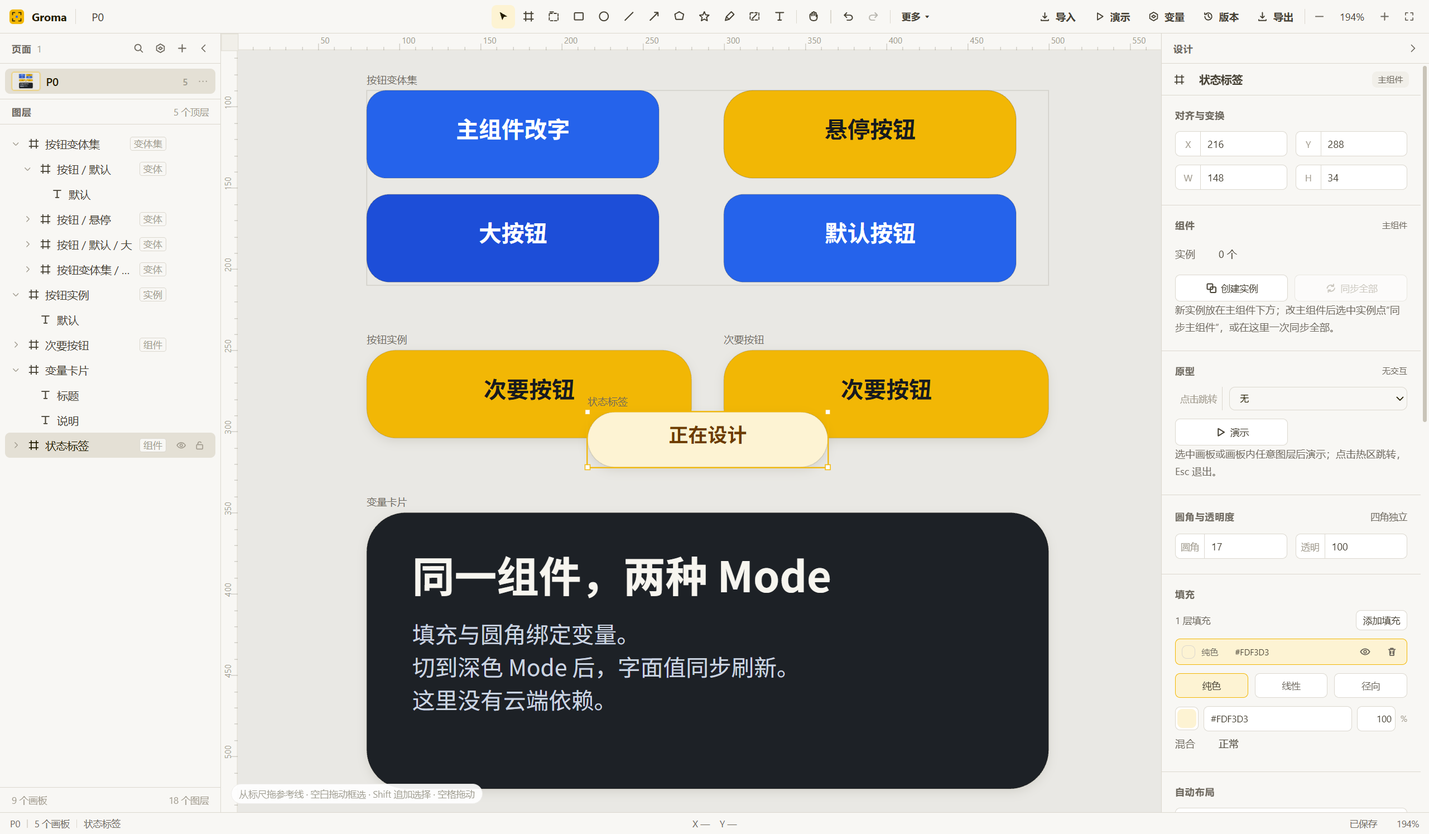
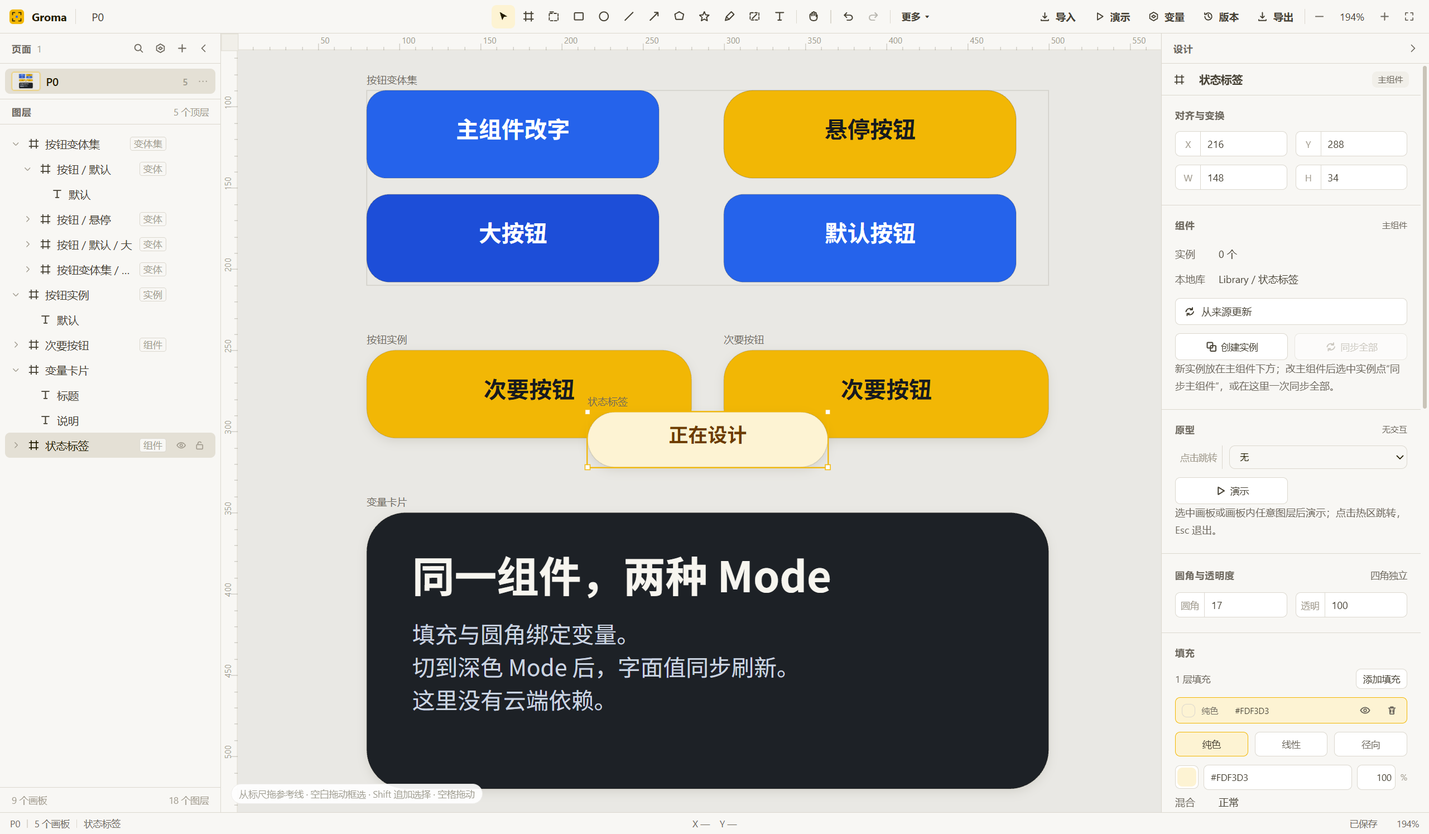
Groma：补齐 P0 组件 / 变量 / 原型验收截图与文档
- 新增 16 张 P0 验收截图：组件库、实例覆盖与重置、实例换源、变体与变体矩阵、变量与变量别名、暗色、右键菜单、跨工程更新
- 重出跨工程导入与窗口截图；tools/cdp-p0.mjs 同步取舍
- README 与四份 docs 更新到 11-28 实测口径

diff --git a/README.md b/README.md
@@ -1,6 +1,6 @@
 # Groma · 小方工作室 UI/UX 设计工具
 
-> **小方工作室 · 出品** ｜ 规格 `v2.2` + 首个可运行切片 `v0.1` ｜ 2026-11-28 ｜ 状态：M0a / M0b 已落地，能画、能存、能导 PNG/JPG/SVG/HTML、任意选中图层/单画板/区块/切片导出与本页批量导出、能导入 Vexa SVG（路径/渐变/描边/文本/内嵌图）与 PNG/JPG/WebP 图片节点并随工程保存；导出弹窗已重排为单焦点，外部软件不再挂在导出入口，选区回传待补，能多选整理、智能吸附、手动参考线、多页面（拖排序 / 缩略图 / 跨页搜索 / 页级视口恢复）、版本历史浏览回滚、Section 区块、切片区域导出、钢笔路径（角点/对称手柄/闭合/多轮廓/共享顶点/锚点拖拽/手柄改形/插点/删点/整条轮廓删除/双击切角点平滑/保存重开/单图层导出）与多对象四布尔 Union/Subtract/Intersect/Exclude，并补齐 Divide / Flatten / Outline stroke（宽屏四布尔+“更多 ▾”，窄屏“矢量 ▾”七项菜单），几何/Alpha/亮度蒙版、多画板可见区空间索引与百画板增量缩略图（编辑一块只重建一块）、四角独立圆角、多填充（最多 16 层，纯色/线性/径向、逐层显隐与排序）、父画板约束（左右/上下拉伸、居中、按比例）、自动布局（横向/纵向、间距、四边内边距、交叉轴/主轴对齐、适应内容主轴）、组件一期（主组件/实例、创建实例、同步全部、脱离、选中主组件）、组件变体一期（多选主组件合并变体集、属性值编辑、新增变体、实例切换保留位置、多属性组合矩阵、按矩阵空格补齐变体、三属性以上其余属性筛选面）、实例覆盖一期（实例子层文字/填充/尺寸等改动记在实例根，同步主组件后重放，可逐层重置）、组件替换（实例换主组件保留位置，同路径同类型同名覆盖继续沿用）、跨页本地组件库（左栏弹层搜索、跳页、实例计数）、本机跨工程组件库（最近 12 个工程、可迁移性检查、视口中心导入）、Variables 一期（集合、多 Mode、颜色/数值变量绑定填充、描边色、圆角、描边宽、自动布局间距、内边距与字号，同类型变量引用，Mode 切换刷新）、画布 Groma 右键菜单（复制/组件/变体/成组/显隐/锁定/删除）、原型一期（点击跳转、右栏原型段、顶栏/播放器演示、百分比热区、返回栈、Esc 退出）、文档级命名样式（填充/描边/效果/文本绑定与手动同步，一键复制变量并把 CSS/JSON 令牌写入工程 `exports`）、可运行 HTML 导出（文字可选、形状 CSS、路径内联 SVG、图片内嵌）、选中图层 CSS 检查与复制、本地版本 diff、图片区域裁剪、剪贴板图片粘贴、形状图片填充（铺满/适应 + 焦点）、文本字距、段落间距与项目符号/数字列表、多投影/整层模糊、Shift+2 选中适配（见 0.9）
+> **小方工作室 · 出品** ｜ 规格 `v2.2` + 首个可运行切片 `v0.1` ｜ 2026-11-28 ｜ 状态：M0a / M0b 已落地，能画、能存、能导 PNG/JPG/SVG/HTML、任意选中图层/单画板/区块/切片导出与本页批量导出、能导入 Vexa SVG（路径/渐变/描边/文本/内嵌图）与 PNG/JPG/WebP 图片节点并随工程保存；导出弹窗已重排为单焦点，外部软件不再挂在导出入口，选区回传待补，能多选整理、智能吸附、手动参考线、多页面（拖排序 / 缩略图 / 跨页搜索 / 页级视口恢复）、版本历史浏览回滚、Section 区块、切片区域导出、钢笔路径（角点/对称手柄/闭合/多轮廓/共享顶点/锚点拖拽/手柄改形/插点/删点/整条轮廓删除/双击切角点平滑/保存重开/单图层导出）与多对象四布尔 Union/Subtract/Intersect/Exclude，并补齐 Divide / Flatten / Outline stroke（宽屏四布尔+“更多 ▾”，窄屏“矢量 ▾”七项菜单），几何/Alpha/亮度蒙版、多画板可见区空间索引与百画板增量缩略图（编辑一块只重建一块）、四角独立圆角、多填充（最多 16 层，纯色/线性/径向、逐层显隐与排序）、父画板约束（左右/上下拉伸、居中、按比例）、自动布局（横向/纵向、间距、四边内边距、交叉轴/主轴对齐、适应内容主轴）、组件一期（主组件/实例、创建实例、同步全部、脱离、选中主组件）、组件变体一期（多选主组件合并变体集、属性值编辑、新增变体、实例切换保留位置、多属性组合矩阵、按矩阵空格补齐变体、三属性以上其余属性筛选面）、实例覆盖一期（实例子层文字/填充/尺寸等改动记在实例根，同步主组件后重放，可逐层重置）、组件替换（实例换主组件保留位置，同路径同类型同名覆盖继续沿用）、跨页本地组件库（左栏弹层搜索、跳页、实例计数）、本机跨工程组件库（最近 12 个工程、可迁移性检查、视口中心导入、来源更新）、Variables 一期（集合、多 Mode、颜色/数值变量绑定填充、描边色、圆角、描边宽、自动布局间距、内边距与字号，同类型变量引用，Mode 切换刷新）、画布 Groma 右键菜单（复制/组件/变体/成组/显隐/锁定/删除）、原型一期（点击跳转、右栏原型段、顶栏/播放器演示、百分比热区、返回栈、Esc 退出）、文档级命名样式（填充/描边/效果/文本绑定与手动同步，一键复制变量并把 CSS/JSON 令牌写入工程 `exports`）、可运行 HTML 导出（文字可选、形状 CSS、路径内联 SVG、图片内嵌）、选中图层 CSS 检查与复制、本地版本 diff、图片区域裁剪、剪贴板图片粘贴、形状图片填充（铺满/适应 + 焦点）、文本字距、段落间距与项目符号/数字列表、多投影/整层模糊、Shift+2 选中适配（见 0.9）
 > 对标 Figma Design 主编辑器 ｜ 全中文 ｜ 本地优先 ｜ 零账号 ｜ 零 AI ｜ MIT
 >
 > 名字含义：Groma 是古罗马人放线画网格、规划城市的测绘架。罗马人用它规划城市，Groma 用来规划界面。
@@ -110,7 +110,7 @@
 | 父画板约束 | 子图层可按水平左/右/居中/左右拉伸/按比例、垂直上/下/居中/上下拉伸/按比例跟随父 Frame/Section 尺寸变化；画布缩放父画板时子层重排，并与父变化同一事务撤销。右栏“约束”两枚下拉，仅直接父级为 Frame 时出现。真实 EXE `Figma33` 选中卡片显示“左右拉伸 / 上下拉伸”；截图 `shots/figma33-final-inspector.png` |
 | 自动布局 | Frame/Section/Group 可开启横向/纵向自动排列；支持间距、四边独立内边距、交叉轴起始/居中/末尾/拉伸、主轴起始/居中/末尾/两端、适应内容主轴。子层按图层顺序排列，选中子层可在右栏“布局顺序”里上移/下移并立即重排；画布拖动被布局接管，改子层尺寸/容器尺寸/布局参数立即重排，嵌套布局先算内层再算外层；撤销会同时恢复父容器与所有移动过的兄弟层。真实 EXE `AutoLayout` 四按钮横向两端对齐，右栏方向用图标 + 文字、重排/关闭用图标按钮；截图 `shots/autolayout-ui-final.png`、`shots/layout-order-final.png` |
 | 组件一期 | Frame 可标记主组件或实例，实例用 `componentOf` 指回主组件；右栏“组件”段按状态显示创建组件 / 创建实例 / 同步全部 / 同步主组件 / 脱离组件 / 选中主组件。创建实例默认放主组件下方 40px；同步保留实例位置、名称与父级，用主组件子树重建后代并生成新 id；一条操作只产生一条撤销。左栏图层行与检查器类型 chip 区分“组件 / 实例”。真实 EXE `Components` 创建实例后立刻渲染，重开工程实例仍在，右栏 `scrollWidth` 无溢出；截图 `shots/component-final.png`、`shots/component-master.png` |
-| 组件变体 / 本地组件库 | Frame 可携带 `variantSetId` / `variantProps`，多选同一父级的主组件可“合并为变体集”；变体根可编辑属性值、从当前变体新增副本，也可追加属性维度并按 2×2 组合矩阵补空位，三属性以上用其余属性筛选面；实例下拉切换同集变体并保留位置/尺寸采用目标变体。左栏组件库弹层跨页列出全部主组件，支持搜索、页面/尺寸、实例计数、点击跳页选中；“本机工程”页签扫描最近 12 个本地工程的主组件，标记图片/样式/变量/实例等外部依赖，可迁移组件一键导入到当前视口中心并换全新 id。真实 EXE `P0` 默认→悬停切换、集内新增变体、组件库 2 行、右栏无溢出；再从 `Library` 导入“状态标签”，图层与右栏主组件正常；截图 `shots/p0-variant.png`、`shots/p0-library.png`、`shots/p0-cross-library.png`、`shots/p0-cross-import.png` |
+| 组件变体 / 本地组件库 | Frame 可携带 `variantSetId` / `variantProps`，多选同一父级的主组件可“合并为变体集”；变体根可编辑属性值、从当前变体新增副本，也可追加属性维度并按 2×2 组合矩阵补空位，三属性以上用其余属性筛选面；实例下拉切换同集变体并保留位置/尺寸采用目标变体。左栏组件库弹层跨页列出全部主组件，支持搜索、页面/尺寸、实例计数、点击跳页选中；“本机工程”页签扫描最近 12 个本地工程的主组件，标记图片/样式/变量/实例等外部依赖，可迁移组件一键导入到当前视口中心并换全新 id。真实 EXE `P0` 默认→悬停切换、集内新增变体、组件库 2 行、右栏无溢出；再从 `Library` 导入“状态标签”，图层与右栏主组件正常，改来源后点“从来源更新”主组件与实例同步为“来源已更新”；截图 `shots/p0-variant.png`、`shots/p0-library.png`、`shots/p0-cross-library.png`、`shots/p0-cross-import.png` |
 | 实例覆盖 / 组件替换 | 实例根保存 `instanceOverrides`，键为实例根到子层的子索引路径（如 `0.1`）；实例子层改文字、填充、圆角、尺寸、位置、透明度或显隐只记覆盖，主组件同步/切变体后按路径重放，脱离组件时清空。右栏“实例覆盖”段显示实例名、路径、已覆盖字段与“重置此层”。真实 EXE `P0` 实例文字改“实例覆盖”，主组件改“主组件改字”，同步后实例仍“实例覆盖”，重置后回“主组件改字”。右栏“替换组件”可换到任意本工程主组件，保留实例位置，按路径核对同类型同名后继续沿用覆盖；真实 EXE `P0` 实例换到“次要按钮”，主组件行与画布同步切换。截图 `shots/p0-instance-override.png`、`shots/p0-instance-override-sync.png`、`shots/p0-instance-override-reset.png`、`shots/p0-instance-swap.png` |
 | 画布右键菜单 | 画布不再弹 WebView 默认菜单，改为 Groma 菜单：按命中图层先选中，提供复制、创建实例、新增变体、同步/脱离组件、合并变体集、创建组件、成组/解散、显隐、锁定、删除与全选。空白右键显示画布级入口；菜单位置按窗口边缘收拢。真实 EXE 右键“标题”打开 224px 菜单，选中与动作正常；截图 `shots/p0-context-menu.png` |
 | Variables / 多 Mode | 文档级 `variables` 集合带 Light/Dark 等 Mode；颜色变量可绑节点填充首色，数值变量可绑统一圆角；切换 Mode 或改当前 Mode 变量值，会批量刷新所有绑定字面值并保持 `variableBindings`，仍走本地工程与撤销。顶栏“变量”打开集合/Mode/变量表，右栏“变量”段做图层绑定。真实 EXE `P0` 卡片填充 `#F7F5EF→#1D2126`、圆角 `12→24`，标题/正文颜色同步；截图 `shots/p0-variable-panel.png`、`shots/p0-variables-dark.png` |
@@ -129,7 +129,7 @@
 | 图层树 / 显隐 / 锁定 / 重命名 | 图层嵌套正确；检查器标题可直接改名，改名进入撤销历史 |
 | 属性检查器 | X/Y/W/H、圆角（统一/四角独立）、透明度、填充、描边、文本内容、字体族、字号、字重、字距、文本对齐、行高、斜体；填充支持纯色 / 线性 / 径向切换、色标颜色 / 位置 / 透明度、增删色标（新增取两侧中点色）、线性角度与反向、径向圆心 / 半径；描边支持宽度、颜色、透明度、实线 / 虚线 / 点线 / 自定义间距、端点与转角；文本字距单位 px、可负值，Canvas 与 SVG 同步；真实 EXE 已验证导入文本 Arial→Microsoft YaHei、渐变 3→4 色标与 45°、描边 8→12px 且 custom→dashed / round / round、标题字距 0→6 并保存重开 |
 | 图层 CSS | 选中 Frame/Shape/Image/Group 时右栏“代码”段输出可直接粘的 CSS：定位尺寸、透明度、变换、溢出、四角圆角、底层纯色或多层渐变 `background-image`、首条描边、投影、整层模糊、文本字体/字号/字重/行高/字距/对齐/斜体/颜色；类名由图层名生成。真实 EXE 选中“样式卡 A”得到 `.样式卡-a`，代码区显示完整规则；可信鼠标点击“复制 CSS”后按钮变“已复制”，截图 `shots/copy-css.png` |
-| 撤销 / 重做 | 新增、删除子树、属性补丁、拖动事务均只产生一条历史；多选拖动、批量删除、对齐/分布、成组/解组也各自单步撤销；手动参考线添加/移动/删除逐步撤销；页面新建/改名/复制/删除/拖排序逐步撤销并恢复页顺序与选区；钢笔锚点拖拽用静默更新合并为一条历史；布尔与 Divide/Flatten/Outline 的多结果与源补丁合并为一条；蒙版启用/取消/切换类型各一条 patch 历史；图片裁剪拖动一条历史；父画板缩放时约束子层与画板变化同事务；样式创建/更新/删除保存整文档前后快照；当前 267 项单测通过 |
+| 撤销 / 重做 | 新增、删除子树、属性补丁、拖动事务均只产生一条历史；多选拖动、批量删除、对齐/分布、成组/解组也各自单步撤销；手动参考线添加/移动/删除逐步撤销；页面新建/改名/复制/删除/拖排序逐步撤销并恢复页顺序与选区；钢笔锚点拖拽用静默更新合并为一条历史；布尔与 Divide/Flatten/Outline 的多结果与源补丁合并为一条；蒙版启用/取消/切换类型各一条 patch 历史；图片裁剪拖动一条历史；父画板缩放时约束子层与画板变化同事务；样式创建/更新/删除保存整文档前后快照；当前 269 项单测通过 |
 | 命令层 | `insert / remove / patch / restore / clone` 五类命令；编辑器 `addNode / deleteSelected / duplicateSelected / updateSilent / nudgeSelected` 已全部迁移，结构字段不能通过 patch 穿透 |
 | 5000 节点基准 | `npm run bench`：同一份代码在不同系统负载下波动，命中首节点约 0.10–0.39ms、复制 2000 节点约 4–21ms、200 步撤销约 0.29–1.11s、全树 JSON 字符串化约 8–9ms、结构校验约 30–130ms、100 次写-读-写往返零不一致（约 13.7–53.8s）；波动值不作为性能 SLA |
 | 渲染裁剪 | 画布只遍历视口内节点；状态更新合并到下一帧 rAF；交互时跳过画板阴影、名称标签与点阵网格；平移用内容区快照，不再逐事件重画整场景；DPR 最多 800 万物理像素、上限 2。页缩略图改为 100ms 尾部合并，并限制到 3 层/0.5px 细节，避免和主画布挤同一帧（5000 节点 mock 0.52ms/次，50/5051 节点） |
@@ -146,7 +146,7 @@
 
 **尚未实现（不要当成已有）**
 
-- 更精确的描边转轮廓（虚线 / 复杂 join）、跨工程组件更新/发布 / 组件属性覆盖、变量批量导入/导出、约束九宫、Smart Guides 的间距数字胶囊、布局网格、小地图、PDF 导出、ZIP 打包、保存目录对话框、文件对话框打开外部工程、命名版本 / 分支合并、评论 / 协作、图案填充、混合模式、蒙版组、图像蒙版、羽化/扩展尚未实现。自动布局一期已支持固定主轴与 Hug 主轴；Fill/Fixed 全组合、换行、布局网格未做；子层顺序可用右栏按钮重排，画布拖拽排序未做。组件变体一期已支持合并变体集、属性值编辑、新增变体、多属性组合矩阵、三属性以上筛选面与实例同集切换；实例覆盖一期支持实例子层文字/填充/尺寸等覆盖并在同步后重放、逐层重置，组件库已支持本机跨工程浏览与可迁移组件导入，跨工程更新/发布未做；组件替换已落地；原型一期已支持点击跳转与本地演示，拖拽/悬停/按键/定时/页面加载、Overlay、Swap、Scroll、Smart Animate、设备框、录屏、分享未做。投影与整层模糊已落地，内阴影、背景模糊与投影 spread 未做；几何形状蒙版与 Alpha/亮度蒙版已落地；矢量路径、渐变、描边、文本与内嵌图片的 SVG 导入、PNG/JPG/WebP 图片节点与工程资产层、图片区域裁剪、剪贴板图片粘贴、形状图片填充已落地；图片节点裁剪焦点与孤儿资产清理未做。文本仅支持整段样式，字距、段落间距、项目符号/数字列表与常用字体建议已做，富文本片段样式、路径文字、链接与系统字体全量枚举未做。
+- 更精确的描边转轮廓（虚线 / 复杂 join）、跨工程组件发布/版本订阅 / 组件属性覆盖、变量批量导入/导出、约束九宫、Smart Guides 的间距数字胶囊、布局网格、小地图、PDF 导出、ZIP 打包、保存目录对话框、文件对话框打开外部工程、命名版本 / 分支合并、评论 / 协作、图案填充、混合模式、蒙版组、图像蒙版、羽化/扩展尚未实现。自动布局一期已支持固定主轴与 Hug 主轴；Fill/Fixed 全组合、换行、布局网格未做；子层顺序可用右栏按钮重排，画布拖拽排序未做。组件变体一期已支持合并变体集、属性值编辑、新增变体、多属性组合矩阵、三属性以上筛选面与实例同集切换；实例覆盖一期支持实例子层文字/填充/尺寸等覆盖并在同步后重放、逐层重置，组件库已支持本机跨工程浏览、可迁移组件导入与从来源更新；未做跨工程发布/版本订阅；组件替换已落地；原型一期已支持点击跳转与本地演示，拖拽/悬停/按键/定时/页面加载、Overlay、Swap、Scroll、Smart Animate、设备框、录屏、分享未做。投影与整层模糊已落地，内阴影、背景模糊与投影 spread 未做；几何形状蒙版与 Alpha/亮度蒙版已落地；矢量路径、渐变、描边、文本与内嵌图片的 SVG 导入、PNG/JPG/WebP 图片节点与工程资产层、图片区域裁剪、剪贴板图片粘贴、形状图片填充已落地；图片节点裁剪焦点与孤儿资产清理未做。文本仅支持整段样式，字距、段落间距、项目符号/数字列表与常用字体建议已做，富文本片段样式、路径文字、链接与系统字体全量枚举未做。
 - 批量导出是逐个写文件，不打包 ZIP，也没有“选择保存目录 / 文件对话框”，固定写入工程 `exports`；JPG 无质量滑杆；SVG 生成器覆盖 rect / ellipse / path / text / frame / section / group / image，支持渐变、描边与文本字体/斜体/对齐/行高；几何蒙版输出 `clipPath`，Alpha/亮度蒙版输出 `<mask mask-type>`；阴影、混合模式、滤镜和蒙版组尚未支持，frame 子边框与 Canvas 近似，不是完整 CSS / 滤镜级保真。
 - 外部软件交接入口未挂在导出弹窗：底层保留 `groma_open_in_app`、应用发现与 Vexa 带文件启动；Groma 已有图片节点/工程资产导入（见“图片导入 / 资产层”），外部软件的工程级导入只保留入口，选区回传接收层未做。不做 `.groma` ↔ `.strata` / `.vex` 原生工程互转，也不承诺批量外部处理。Vexa 已有文档时接到外部 SVG 会替换当前文档，未做未保存确认。
 - `npm run overflow` 三视口自动扫描、开发期 `Ctrl+Alt+O` 描红尚未实现；目前已实拍最大化（约 1707×1019 CSS）、1280×800（约 839×496 CSS）与最小窗口 1040×680（约 679×416 CSS）三档，未见横向溢出，仍欠自动像素扫描。
@@ -160,7 +160,7 @@
 2. 智能参考线 / 吸附：移动与缩放、手动参考线已落地（2026-11-22，见 0.9）；间距数字胶囊、绘制时吸附仍待补。
 3. ~~多页面与页面管理（A02 全链路）~~（2026-11-23 已补齐：列表 / 新建 / 改名 / 复制 / 删除 / 切换 / 撤销 / 拖排序 / 页级视口 / 关掉重开恢复当前页与视口 / 实时缩略图 / 跨页搜索，均已真实窗口验收）。
 4. ~~A05 版本历史浏览与回滚~~（2026-11-23 已落地快照列表、页面预览、手动存版本、二次确认恢复、恢复前留底、同内容保存去重；2026-11-27 已加旧快照相对当前 diff）；命名版本、分支合并仍待补。
-5. ~~A03 Section 基础链路~~（2026-11-23 已落地：`S` 创建、命名、折叠、填充、Frame 入区块、PNG 整体导出）；~~A08 导出~~（2026-11-23 已落地 PNG/JPG/SVG、当前选中 / 本页全部、批量逐个写入、JPG 白底、SVG 矢量；批量不打包 ZIP；2026-11-24 导出弹窗重排为单焦点并拆掉外部应用勾选）；外部软件交接第一版已收口，下一步只做“选中元素/框选区域 → Strata/Vexa 处理 → 带回原位”，选区回传接收层待补；Groma 图片资产层与 A07 SVG 导入已接；P0 的组件变体（含多属性矩阵）、跨页组件库、Variables 多 Mode、实例覆盖与画布右键菜单已收口，后续按能力矩阵补跨工程组件更新/发布与变量批量导入/导出。
+5. ~~A03 Section 基础链路~~（2026-11-23 已落地：`S` 创建、命名、折叠、填充、Frame 入区块、PNG 整体导出）；~~A08 导出~~（2026-11-23 已落地 PNG/JPG/SVG、当前选中 / 本页全部、批量逐个写入、JPG 白底、SVG 矢量；批量不打包 ZIP；2026-11-24 导出弹窗重排为单焦点并拆掉外部应用勾选）；外部软件交接第一版已收口，下一步只做“选中元素/框选区域 → Strata/Vexa 处理 → 带回原位”，选区回传接收层待补；Groma 图片资产层与 A07 SVG 导入已接；P0 的组件变体（含多属性矩阵）、跨页组件库、Variables 多 Mode、实例覆盖与画布右键菜单已收口，后续按能力矩阵补跨工程组件发布/版本订阅与变量批量导入/导出。
 
 ## 一 定位
 

diff --git a/docs/Figma能力矩阵.md b/docs/Figma能力矩阵.md
@@ -1,7 +1,7 @@
 # Groma × Figma 能力矩阵（执行版）
 
-> 更新：2026-11-28 ｜ 审计基线：`npm test` 43 个测试文件 / 267 tests 全绿；G01 已落地原型一期（Frame/图层点击跳转、右栏“原型”段、顶栏“演示”、本地播放器、百分比热区、返回栈、Esc 退出，真实 EXE 双屏跳转 + 关闭回编辑器），G05 同步落地本地演示；F01 已落地组件一期（Frame 主组件标记、创建实例、显式同步、同步全部、脱离、选中主组件，实例根位置保留、子树重建进撤销历史，真实 EXE 创建实例 + 重开工程 + 右栏无溢出）；D04 已落地四角独立圆角（`cornerRadii` 左上/右上/右下/左下，Canvas/SVG/PNG 与检查器统一，真实 EXE 截图 + 保存重开通过）；D01 已落地同节点最多 16 层填充（纯色/线性/径向、逐层显隐、上下移动，Canvas/SVG 按底层到顶层叠加，右栏“填充 · N 层”）；E01 已落地父 Frame 缩放约束（左/右/居中/左右拉伸/按比例 + 上/下/居中/上下拉伸/按比例，画布与撤销纳入子层）；E02 已落地自动布局一期（Frame/Section/Group 横向/纵向、gap、四边 padding、交叉轴 start/center/end/stretch、主轴 start/center/end/space-between、适应内容主轴；子层按图层顺序，选中子层可在右栏“布局顺序”上移/下移并立即重排，嵌套布局自内向外；拖子层交给布局，改尺寸立即重排，撤销合并父容器与兄弟层）；F04 已落地文档级命名样式（填充/描边/效果/文本四类绑定、同步、解除、删除，右栏显示“已绑定 / 已偏离”，并支持复制变量与导出 CSS/JSON 令牌文件）；C03 已落地钢笔一期/锚点编辑/多轮廓复合路径/共享顶点（`vertexId` 最小内核）/当前轮廓序号与整条轮廓删除，C04 已落地多对象四布尔 Union/Subtract/Intersect/Exclude、同父级校验与 z-order 差集（底层减其余并集），并补齐 Divide / Flatten / Outline stroke；C05 已落地几何形状蒙版与 Alpha/亮度蒙版，多画板画布加入可见区空间索引；C06 已落地图片区域裁剪、剪贴板粘贴与形状图片填充（铺满/适应 + 焦点），C07 已落地字距、段落间距、项目符号/数字列表与字体族建议；D03 已落地多投影与整层模糊（Canvas 离屏效果层 + SVG filter），B02 已补齐 Shift+2 选中适配；百画板总览已改成缩放位图快照 + 低倍/中倍密集画板缩略图 + 独立选中覆盖层 + 增量缩略图 + 建图 12ms 预算 + 左栏行 memo，并加入空闲回调预热（首帧 6 张 / 12ms，空闲片 24 张 / 26ms；600 冷启动 4.2s 内 600 张，500ms 150 张，1 个 >16ms、0 个 >32ms，max 30.9ms）；A02 全链路、A05 浏览回滚与快照 diff、A03 Section 基础链路、A08 PNG/JPG/SVG/HTML 与本页批量导出、选中图层 CSS 检查复制、导出弹窗单焦点重排、页缩略图不抢帧补丁、PNG/JPG/WebP 图片节点与工程资产层（含替换图片）、文本对齐/行高/斜体、C02 直线/箭头/多边形/星形与 Slice 区域导出均已落地；左栏 footer 背景固定与内容裁剪、页面“画板”计数只数 Frame、顶栏宽屏四布尔+“更多 ▾”与窄屏“矢量 ▾”七项菜单、验收截图统一最大化；MCP 19 个 stdio 工具（0.3.4：新增能力查询/单节点精确读/百画板网格/批量改节点/页面改名与背景/四角圆角/多填充/约束/自动布局/原型目标写入）；外部软件工程级导入只留入口，选区回传待补；EXE 3,417,600 B（3,338 KB），2026-11-28 13:00:54；CSS `index-WP0PpSem.css` 81.12 kB、JS `index-D1or2Nos.js` 634.03 kB
-> P0 补充（2026-11-28）：`npm run gate` 43 文件 / 267 tests；F01 实例覆盖 + 组件替换一期（实例子层文字/填充/尺寸等改动按子索引路径写在实例根，主组件同步与切变体后重放，逐层重置；替换组件保留位置并按路径核对同类型同名覆盖；真实 EXE 覆盖→改主组件→同步仍覆盖→重置回主组件、实例换“次要按钮”通过）、F02 变体多属性一期（追加属性维度、2×2 组合矩阵、三属性以上其余属性筛选面、点击空格补齐组合并保持变体集尺寸）、F03 本地组件库（本工程跨页搜索/跳页/实例计数 + 最近 12 个本机工程的跨工程浏览与可迁移组件导入）、F05 Variables 一期（集合、Light/Dark 等 Mode、填充/描边色/圆角/描边宽/自动布局间距/内边距/字号绑定、同类型变量引用、切 Mode 批量刷新）已落地；画布补 Groma 右键菜单，不再弹 WebView 默认菜单。真实 EXE `P0.groma` 验收，EXE 3,417,600 B（3,338 KB），2026-11-28 13:00:54；CSS `index-WP0PpSem.css` 81.12 kB、JS `index-D1or2Nos.js` 634.03 kB。
+> 更新：2026-11-28 ｜ 审计基线：`npm test` 44 个测试文件 / 269 tests 全绿；G01 已落地原型一期（Frame/图层点击跳转、右栏“原型”段、顶栏“演示”、本地播放器、百分比热区、返回栈、Esc 退出，真实 EXE 双屏跳转 + 关闭回编辑器），G05 同步落地本地演示；F01 已落地组件一期（Frame 主组件标记、创建实例、显式同步、同步全部、脱离、选中主组件，实例根位置保留、子树重建进撤销历史，真实 EXE 创建实例 + 重开工程 + 右栏无溢出）；D04 已落地四角独立圆角（`cornerRadii` 左上/右上/右下/左下，Canvas/SVG/PNG 与检查器统一，真实 EXE 截图 + 保存重开通过）；D01 已落地同节点最多 16 层填充（纯色/线性/径向、逐层显隐、上下移动，Canvas/SVG 按底层到顶层叠加，右栏“填充 · N 层”）；E01 已落地父 Frame 缩放约束（左/右/居中/左右拉伸/按比例 + 上/下/居中/上下拉伸/按比例，画布与撤销纳入子层）；E02 已落地自动布局一期（Frame/Section/Group 横向/纵向、gap、四边 padding、交叉轴 start/center/end/stretch、主轴 start/center/end/space-between、适应内容主轴；子层按图层顺序，选中子层可在右栏“布局顺序”上移/下移并立即重排，嵌套布局自内向外；拖子层交给布局，改尺寸立即重排，撤销合并父容器与兄弟层）；F04 已落地文档级命名样式（填充/描边/效果/文本四类绑定、同步、解除、删除，右栏显示“已绑定 / 已偏离”，并支持复制变量与导出 CSS/JSON 令牌文件）；C03 已落地钢笔一期/锚点编辑/多轮廓复合路径/共享顶点（`vertexId` 最小内核）/当前轮廓序号与整条轮廓删除，C04 已落地多对象四布尔 Union/Subtract/Intersect/Exclude、同父级校验与 z-order 差集（底层减其余并集），并补齐 Divide / Flatten / Outline stroke；C05 已落地几何形状蒙版与 Alpha/亮度蒙版，多画板画布加入可见区空间索引；C06 已落地图片区域裁剪、剪贴板粘贴与形状图片填充（铺满/适应 + 焦点），C07 已落地字距、段落间距、项目符号/数字列表与字体族建议；D03 已落地多投影与整层模糊（Canvas 离屏效果层 + SVG filter），B02 已补齐 Shift+2 选中适配；百画板总览已改成缩放位图快照 + 低倍/中倍密集画板缩略图 + 独立选中覆盖层 + 增量缩略图 + 建图 12ms 预算 + 左栏行 memo，并加入空闲回调预热（首帧 6 张 / 12ms，空闲片 24 张 / 26ms；600 冷启动 4.2s 内 600 张，500ms 150 张，1 个 >16ms、0 个 >32ms，max 30.9ms）；A02 全链路、A05 浏览回滚与快照 diff、A03 Section 基础链路、A08 PNG/JPG/SVG/HTML 与本页批量导出、选中图层 CSS 检查复制、导出弹窗单焦点重排、页缩略图不抢帧补丁、PNG/JPG/WebP 图片节点与工程资产层（含替换图片）、文本对齐/行高/斜体、C02 直线/箭头/多边形/星形与 Slice 区域导出均已落地；左栏 footer 背景固定与内容裁剪、页面“画板”计数只数 Frame、顶栏宽屏四布尔+“更多 ▾”与窄屏“矢量 ▾”七项菜单、验收截图统一最大化；MCP 19 个 stdio 工具（0.3.4：新增能力查询/单节点精确读/百画板网格/批量改节点/页面改名与背景/四角圆角/多填充/约束/自动布局/原型目标写入）；外部软件工程级导入只留入口，选区回传待补；EXE 3,416,064 B（3,336 KB），2026-11-28 13:37:16；CSS `index-DPX5GKEb.css` 81.23 kB、JS `index-zbpbLfs1.js` 637.32 kB
+> P0 补充（2026-11-28）：`npm run gate` 44 文件 / 269 tests；F01 实例覆盖 + 组件替换一期（实例子层文字/填充/尺寸等改动按子索引路径写在实例根，主组件同步与切变体后重放，逐层重置；替换组件保留位置并按路径核对同类型同名覆盖；真实 EXE 覆盖→改主组件→同步仍覆盖→重置回主组件、实例换“次要按钮”通过）、F02 变体多属性一期（追加属性维度、2×2 组合矩阵、三属性以上其余属性筛选面、点击空格补齐组合并保持变体集尺寸）、F03 本地组件库（本工程跨页搜索/跳页/实例计数 + 最近 12 个本机工程的跨工程浏览、可迁移组件导入与从来源更新）、F05 Variables 一期（集合、Light/Dark 等 Mode、填充/描边色/圆角/描边宽/自动布局间距/内边距/字号绑定、同类型变量引用、切 Mode 批量刷新）已落地；画布补 Groma 右键菜单，不再弹 WebView 默认菜单。真实 EXE `P0.groma` 验收，EXE 3,416,064 B（3,336 KB），2026-11-28 13:37:16；CSS `index-DPX5GKEb.css` 81.23 kB、JS `index-zbpbLfs1.js` 637.32 kB。
 > 功能底本：[`Figma功能蒸馏参考.md`](./Figma功能蒸馏参考.md)（能力清单，不是完成清单）
 > 权威顺序：`README.md` 第零章 → 本文 → 其他规划文档
 > 一句话：**Figma 免费版是功能基线，其他工具的长处是融合层；矩阵只认双击 EXE 能跑的结果。**
@@ -111,7 +111,7 @@
 | --- | --- | --- | --- | --- | --- |
 | F01 | Component / Instance | 主组件、实例、Detach、Swap、Override | ◐ 2026-11-28 组件一期 + 实例覆盖一期：Frame 主组件标记、创建实例、显式同步、脱离、选中主组件；实例数统计与“同步全部”；实例子层文字/填充/圆角/尺寸/位置/透明度/显隐覆盖按路径写入实例根，同步/切变体后重放，可逐层重置。组件替换已落地，保留实例位置并按路径核对同类型同名覆盖；未做实时联动与组件属性面板 | 实时联动、组件属性 | P1 |
 | F02 | Variants | 属性组合、Boolean/Text/Numeric/Variant、嵌套 | ◐ 2026-11-28 变体一期 + 多属性矩阵：多选主组件合并变体集，首变体“默认”、后续自动命名；根属性可改，可追加属性维度，2×2 组合矩阵显示已填/空格，点空格按属性网格补组合并保持变体集尺寸；三属性以上矩阵仍画前两轴，其余属性用筛选面固定后再补格；实例下拉切换同集变体并保留位置/尺寸用目标。未做 Boolean/Text/Numeric 属性编辑器、嵌套与组件属性面板 | 属性类型、嵌套 | P1 |
-| F03 | Libraries / Assets | 团队库、个人库、发布/更新、资产搜索 | ◐ 2026-11-28 本地组件库：左栏弹层跨页列出本工程主组件，按名称/页面/变体搜索，显示尺寸与直接实例数，点击跳页选中；“本机工程”页签扫描最近 12 个本地工程，逐组件检查图片/样式/变量/实例等外部依赖，可迁移组件一键导入当前视口中心并换全新 id；不做在线团队库、跨工程更新/发布与资产拖放 | 跨工程更新/发布 | P2 |
+| F03 | Libraries / Assets | 团队库、个人库、发布/更新、资产搜索 | ◐ 2026-11-28 本地组件库：左栏弹层跨页列出本工程主组件，按名称/页面/变体搜索，显示尺寸与直接实例数，点击跳页选中；“本机工程”页签扫描最近 12 个本地工程，逐组件检查图片/样式/变量/实例等外部依赖，可迁移组件一键导入当前视口中心并换全新 id，导入后保留来源，可在右栏“从来源更新”换成本机最新版本并同步实例；不做在线团队库、跨工程发布/版本订阅与资产拖放 | 跨工程发布/版本订阅 | P2 |
 | F04 | Styles | Paint/Text/Effect/Grid 四类样式、命名空间 | ◐ 2026-11-27 文档级命名样式：填充/描边/效果/文本四类，节点 `styleRefs` 绑定；右栏“存为样式 / 绑定 / 同步到样式 / 解除 / 删除”，样式值偏离时提示“已偏离”；更新样式会同步所有同类绑定图层，删除样式清引用；右栏“复制变量”输出 `:root { --groma-... }`，“导出令牌”写 CSS + JSON 两个文件到工程 `exports`（真实 EXE：CSS 272 B / JSON 375 B），多填充按顶层到底层、纯色转合法渐变；暂用“保留绑定 + 手动同步”，未做 Figma 式编辑即解绑、Grid 样式、样式重命名 UI | 编辑即解绑、Grid、重命名 UI | P1 |
 | F05 | Variables | Color/Number/String/Boolean、集合、Modes、绑定、引用 | ◐ 2026-11-28 变量一期：文档级集合 + 1–16 个 Mode（Light/Dark）+ 四类型变量；变量值改或切 Mode 时批量物化到已绑定节点，保留 `variableBindings`，仍走本地工程/撤销；填充、描边色、圆角、描边宽、自动布局间距、内边距与字号可分别绑定颜色/数值变量，切 Mode 批量物化；同类型变量可跨集合引用，按目标当前 Mode 沿链解析并拒绝循环/跨类型引用；未做渐变 stop 绑定与批量导入/导出 | 批量导入/导出 | P1 |
 | F06 | Design Tokens | 变量导出到代码 token | ○ 只有 scene JSON | token JSON 导出/导入 | P2 |
@@ -531,20 +531,20 @@
 - UI：Frame 右栏新增“组件”段；未标记显示“创建组件”，主组件显示实例数、“创建实例 / 同步全部”，实例显示主组件名、“同步主组件 / 脱离组件 / 选中主组件”；类型 chip 区分“主组件 / 实例”，左栏图层行加“组件 / 实例”小标签。
 - 验收：真实 EXE 打开 `Components.groma`，主组件 360×240 带 4 个子层；点“创建实例”后图层树出现实例、画布下方同步渲染、右栏切到实例段；`scrollWidth` 溢出审计 `[]`。重开工程实例仍在，主组件段显示“实例 1 个 / 同步全部”。截图 `shots/component-final.png`、`shots/component-master.png`。
 - 测试：`components.test.ts` 4 条（创建实例、同步复制主组件新内容并保留实例位置、脱离保留内容、schema 拒绝非 Frame/双重身份）；全量 **39 文件 / 238 tests**。EXE 3,401,216 B（3,322 KB），2026-11-27 23:21:45。
-- 边界：显式同步，不做主组件修改后的实时联动；变体见 3.28，实例内部覆盖、跨工程组件更新/发布、嵌套实例未做；删除主组件后实例会成孤儿，当前只显示“已失效”。
+- 边界：显式同步，不做主组件修改后的实时联动；变体见 3.28，实例内部覆盖、跨工程发布/版本订阅、嵌套实例未做；删除主组件后实例会成孤儿，当前只显示“已失效”。
 
 ### 3.28 P0 组件变体 + 本地组件库 + Variables + 画布右键菜单（2026-11-28 已落地一期）
 
 - 变体数据：`SceneNode.isVariantSet / variantSetId / variantProps`；变体集只能是 Frame，变体必须是集内主组件，同一集属性名一致、组合不重复。
 - 变体命令：`create-variant-set` 把同父级 2+ 主组件收进 Frame 并按原位重写子层坐标；`add-variant` 克隆当前变体并生成新属性值；`switch-variant` 保留实例位置、采用目标变体尺寸与内容；创建变体实例时移出变体集，避免结构校验失败。
 - 变体 UI：Frame 右栏“合并为变体集”、变体根属性编辑、新增变体、从当前变体新增副本；实例下拉切换；左栏显示“变体集 / 变体”。
-- 组件库：左栏“组件库”弹层跨页列出主组件，按名称/页面/变体搜索，显示尺寸与直接实例数，点击跳页选中；“本机工程”页签扫描最近 12 个本地工程，检查图片/样式/变量/嵌套实例等外部依赖，可迁移组件导入当前视口中心并换全新 id，来源依赖不可迁移时明确标出。
+- 组件库：左栏“组件库”弹层跨页列出主组件，按名称/页面/变体搜索，显示尺寸与直接实例数，点击跳页选中；“本机工程”页签扫描最近 12 个本地工程，检查图片/样式/变量/嵌套实例等外部依赖，可迁移组件导入当前视口中心并换全新 id，来源依赖不可迁移时明确标出；导入主组件保留 `librarySource`，右栏“从来源更新”按来源工程最新内容替换并同步全部实例。
 - 变量数据：`GromaDoc.variables` 集合 + `variableModes`；四类型变量、1–16 个 Mode；节点 `variableBindings.fill / cornerRadius`。`materializeVariables` 在绑定、改变量值与切 Mode 时把当前 Mode 值写入节点，`schema` 校验类型与未知 Mode。
 - 当时边界：变量 UI 顶栏“变量”弹层做集合/Mode/变量表；右栏“变量”段对填充首色与统一圆角绑定，显示当前 Mode。后续已补变量引用与描边/间距/内边距/字号绑定。
 - 右键菜单：画布 `contextMenu` 接 `preventDefault`，先按命中节点选中，空白清选区；菜单按条件显示复制、创建实例、新增变体、同步/脱离/选主组件、合并变体集、创建组件、成组/解散、显隐、锁定、删除、全选；窗口 blur / Escape / 外部 pointerdown 关闭。
 - 验收：真实 EXE `P0.groma` 实例默认→悬停切换、右栏组件下拉“悬停”；组件库 2 行（默认 0 实例 / 悬停 1 实例）；变量弹层浅/深两 Mode，卡片填充 `#F7F5EF→#1D2126`、圆角 `12→24`、标题/正文颜色同步；右键“标题”出现 Groma 224px 菜单；右栏 `overflow: []`。截图 `shots/p0-variant.png`、`shots/p0-variable-panel.png`、`shots/p0-variables-dark.png`、`shots/p0-context-menu.png`、`shots/p0-library.png`。
-- 测试：`variants.test.ts` 9 条、`instance.test.ts` 7 条、`variables.test.ts` 6 条；全量 **43 文件 / 267 tests**。EXE 3,417,600 B（3,338 KB），2026-11-28 13:00:54；CSS `index-WP0PpSem.css` 81.12 kB、JS `index-D1or2Nos.js` 634.03 kB。
-- 边界：变体矩阵画前两个属性，三属性以上用其余属性筛选面，不能三轴同屏展开，无 Boolean/Text/Numeric 属性编辑器/嵌套；实例覆盖只重放文字/填充/描边/圆角/尺寸/位置/透明度/显隐与字号，不覆盖结构与子层顺序；组件替换按路径同名同类型核对，结构差异大时旧覆盖会丢弃；组件库可跨本机工程浏览与导入，但未做跨工程更新/发布；变量可跨集合引用同类型变量并拒绝循环/跨类型，但未做渐变 stop 绑定与批量导入/导出；右键菜单无子菜单/键盘导航。
+- 测试：`variants.test.ts` 9 条、`instance.test.ts` 7 条、`variables.test.ts` 6 条；全量 **44 文件 / 269 tests**。EXE 3,416,064 B（3,336 KB），2026-11-28 13:37:16；CSS `index-DPX5GKEb.css` 81.23 kB、JS `index-zbpbLfs1.js` 637.32 kB。
+- 边界：变体矩阵画前两个属性，三属性以上用其余属性筛选面，不能三轴同屏展开，无 Boolean/Text/Numeric 属性编辑器/嵌套；实例覆盖只重放文字/填充/描边/圆角/尺寸/位置/透明度/显隐与字号，不覆盖结构与子层顺序；组件替换按路径同名同类型核对，结构差异大时旧覆盖会丢弃；组件库可跨本机工程浏览、导入与从来源更新，但未做跨工程发布/版本订阅；变量可跨集合引用同类型变量并拒绝循环/跨类型，但未做渐变 stop 绑定与批量导入/导出；右键菜单无子菜单/键盘导航。
 
 ### 3.27 G01 原型一期（2026-11-27 已落地）
 

diff --git a/docs/UI家族化改版记录.md b/docs/UI家族化改版记录.md
@@ -1,6 +1,6 @@
 # Groma UI 家族化改版记录
 
-初版：2026-11-22 07:26（Asia/Shanghai）｜ 最近更新：2026-11-28（组件变体多属性矩阵（含三属性筛选面） + 实例覆盖 + 组件替换 + 本地组件库 + Variables 多属性与变量引用 + 画布右键菜单，267 tests）
+初版：2026-11-22 07:26（Asia/Shanghai）｜ 最近更新：2026-11-28（组件变体多属性矩阵（含三属性筛选面） + 实例覆盖 + 组件替换 + 本地组件库 + Variables 多属性与变量引用 + 画布右键菜单，269 tests）
 
 ## P0 继续：本机跨工程组件库（2026-11-28）
 
@@ -13,16 +13,18 @@
 - 组件库弹层加“本工程 / 本机工程”双页签，页签带数量；本机页只读最近 12 个本地 `.groma` 工程，不联网。
 - 每个外部主组件逐层检查图片资产、命名样式、变量绑定、嵌套实例、原型跳转和变体集；有外部依赖就标“不可导入”，点击后在底部提示缺什么，不硬复制出悬空 id。
 - 可迁移组件一键导入当前工程：整棵子树换全新 id，落在当前视口中心并自动选中；外部样式/变量/实例引用在命令层再剥一次兜底。单个工程读坏只跳过并在底部提示，不拖垮整个列表。
+- 导入主组件保留 `librarySource`；右栏显示“本地库 / 工程 / 组件”，点“从来源更新”重新读取来源工程，替换主组件内容但保留 id、位置与实例链接，随后同步全部实例。
 - 弹层保持 318px，不新开常驻面板；空态、加载态、读取失败都在原位。
 
 **验证**
 
-- `npm run gate` PASS：44 文件 / 267 tests；新增 `library.test.ts` 3 条（可迁移判断、换 id 保留字面子树、剥离外部样式/变量/实例引用）。
-- 真实 EXE `P0.groma`：本机页签列出 3 个外部组件，`Library / 状态标签` 与旧工程 `按钮主组件` 标可导入，`Library / 封面卡片` 因图片资产标灰；导入“状态标签”后图层出现、右栏“主组件 / 0 实例”，组件位于当前视口中心并选中；弹层 `overflow: []`。截图 `shots/p0-cross-library.png`、`shots/p0-cross-import.png`。
+- `npm run gate` PASS：44 文件 / 269 tests；新增 `library.test.ts` 5 条（可迁移判断、换 id 保留字面子树、剥离外部样式/变量/实例引用、来源更新保留目标 id/位置、实例链接保持 + 外部依赖剥离）。
+- 真实 EXE `P0.groma`：本机页签列出 3 个外部组件，`Library / 状态标签` 与旧工程 `按钮主组件` 标可导入，`Library / 封面卡片` 因图片资产标灰；导入“状态标签”后图层出现、右栏“主组件 / 0 实例 / 本地库 Library / 状态标签”，组件位于当前视口中心并选中；创建实例后改来源文字与宽度，点“从来源更新”，主组件宽度 170、实例文字同步为“来源已更新”，提示“已从来源更新，实例同步完成”；弹层与右栏 `overflow: []`。截图 `shots/p0-cross-library.png`、`shots/p0-cross-import.png`、`shots/p0-cross-update.png`。
 
 **边界**
 
-- 跨工程只做浏览与导入，不做发布/更新、版本订阅或双向链接；导入后是当前工程的独立主组件，来源再改不会自动同步。
+- 跨工程做浏览、导入与手动“从来源更新”；不做发布/版本订阅或后台自动轮询，来源变化不会主动提示。
+- 更新保留主组件 id 与位置，尺寸/内容采用来源；旧实例覆盖按路径重放，结构变化大时覆盖可能丢弃。
 - 变体组件、含图片/样式/变量/嵌套实例/原型依赖的组件暂不可导入；只扫最近 12 个工程，不做全盘索引与资产拖放。
 ## P0 组件变体 + 本地组件库 + Variables + 画布右键菜单（2026-11-28）
 

diff --git a/docs/超越Figma路线.md b/docs/超越Figma路线.md
@@ -73,7 +73,7 @@ Figma 收费的核心不是“画图”，而是把 Auto Layout、组件库、Va
 | 已落地 | 选中图层 CSS 检查 | 付费 Dev Mode 能力 | 右栏“代码”段 + 复制 CSS |
 | 已落地 | 自动布局一期 | 免费版有基础自动布局；Groma 用本地引擎补上方向、间距、四边内距、对齐与 Hug | 固定主轴 + Hug 主轴；未做 Fill/Fixed 全组合、换行、布局网格 |
 | 已落地一期 | 组件 / 实例 | 免费版组件能力受限；团队复用靠付费库 | 主组件 + 实例 + 显式同步 + 同步全部 + 脱离；未做实时联动、Override、Swap |
-| 已落地一期 | 组件变体 / 组件库 | 付费版的组件系统核心，不只是主组件和实例 | 变体集合并、属性值、新增变体、多属性组合矩阵、三属性以上其余属性筛选面、实例同集切换；本工程跨页组件库搜索/跳页/实例计数，本机最近 12 个工程的跨工程浏览、依赖检查与可迁移组件导入；实例覆盖支持实例子层文字/填充/尺寸等改动在同步后重放并可逐层重置；组件替换保留位置并沿同名同类型覆盖。未做跨工程更新/发布 |
+| 已落地一期 | 组件变体 / 组件库 | 付费版的组件系统核心，不只是主组件和实例 | 变体集合并、属性值、新增变体、多属性组合矩阵、三属性以上其余属性筛选面、实例同集切换；本工程跨页组件库搜索/跳页/实例计数，本机最近 12 个工程的跨工程浏览、依赖检查、可迁移组件导入与从来源更新；实例覆盖支持实例子层文字/填充/尺寸等改动在同步后重放并可逐层重置；组件替换保留位置并沿同名同类型覆盖。未做跨工程发布/版本订阅 |
 | 已落地一期 | Variables / 多 Mode | 付费版核心，设计令牌只有变量没有模式 | 颜色/数值/字符串/布尔变量，Light/Dark 等 Mode，填充、描边色、圆角、描边宽、自动布局间距、内边距与字号绑定，切 Mode 批量刷新；同类型变量可跨集合引用，沿链解析目标当前 Mode；未做批量导入/导出 |
 | 已落地一期 | 原型与演示 | 免费版原型有限，付费演示是评审入口 | 节点点击目标、右栏原型段、顶栏演示、本地播放器、百分比热区、返回栈、Esc；未做拖拽/悬停/定时/Overlay/Smart Animate/设备框/分享 |
 | P1 | PDF / ZIP 导出 | 免费版导出格式有限 | 多页 PDF、整包 ZIP（含 assets 与 HTML） |
@@ -92,5 +92,5 @@ Figma 收费的核心不是“画图”，而是把 Auto Layout、组件库、Va
 ## 5. 本轮结论
 
 - **已经多出来的**：原生可运行 HTML 导出、令牌 `.css/.json` 落盘、选中图层 CSS 检查、本地版本 diff、自动布局一期、组件一期（主组件/实例/同步/脱离）、原型一期（点击跳转/本地演示）、原生 MCP、本地工程/快照、600 画板引擎。
-- **P0 已收口一期**：组件变体、本工程跨页组件库、Variables 多 Mode 已进真实 EXE；不拿“有一期”当“全对齐”，下一刀补跨工程组件更新/发布与变量批量导入/导出，仍不横铺。
+- **P0 已收口一期**：组件变体、本工程跨页组件库、Variables 多 Mode 已进真实 EXE；不拿“有一期”当“全对齐”，下一刀补跨工程组件发布/版本订阅与变量批量导入/导出，仍不横铺。
 - **判断标准**：不是“功能数量比 Figma 多”，而是“用户能不能在 Groma 里少开一个网页、少装一个插件、少做一次手工搬运”，同时基础编辑不输免费版。

diff --git a/docs/底层优化记录.md b/docs/底层优化记录.md
@@ -42,7 +42,7 @@
 
 ## 四 仍未完成（不要当成已完成）
 
-- P0 组件变体（含多属性组合矩阵）、实例覆盖、组件替换、本工程跨页组件库、本机跨工程组件库（最近 12 工程 / 依赖检查 / 视口中心导入）、Variables 多 Mode（含描边/间距/内边距/字号绑定与同类型变量引用）与画布右键菜单已落地一期；剩余：跨工程组件更新 / 发布、变量批量导入/导出、Auto Layout 剩余（Fill/Fixed 全组合、换行、布局网格）、原型剩余（拖拽/悬停/按键/定时/Overlay/Smart Animate/设备框/分享）、约束九宫、布局网格、小地图、PDF/ZIP、文件对话框；A02 多页面全链路（拖排序 / 缩略图 / 跨页搜索 / 页级视口持久化）与 A05 版本浏览回滚已补，见 README 0.9、UI 改版记录与能力矩阵。版本命名/逐帧对比/分支合并仍未做。
+- P0 组件变体（含多属性组合矩阵）、实例覆盖、组件替换、本工程跨页组件库、本机跨工程组件库（最近 12 工程 / 依赖检查 / 视口中心导入 / 来源更新）、Variables 多 Mode（含描边/间距/内边距/字号绑定与同类型变量引用）与画布右键菜单已落地一期；剩余：跨工程组件发布 / 版本订阅、变量批量导入/导出、Auto Layout 剩余（Fill/Fixed 全组合、换行、布局网格）、原型剩余（拖拽/悬停/按键/定时/Overlay/Smart Animate/设备框/分享）、约束九宫、布局网格、小地图、PDF/ZIP、文件对话框；A02 多页面全链路（拖排序 / 缩略图 / 跨页搜索 / 页级视口持久化）与 A05 版本浏览回滚已补，见 README 0.9、UI 改版记录与能力矩阵。版本命名/逐帧对比/分支合并仍未做。
 - 真实画布 60fps @ 5000 节点的持续帧率未量；渲染仍是整帧重绘 + 视口裁剪，不是分层脏矩形。
 - `npm run overflow` 三视口自动扫描、`Ctrl+Alt+O` 描红未实现。
 - MCP 仍是仓库内 Node stdio 服务，不是随 EXE 分发的独立 `groma-mcp.exe`。
